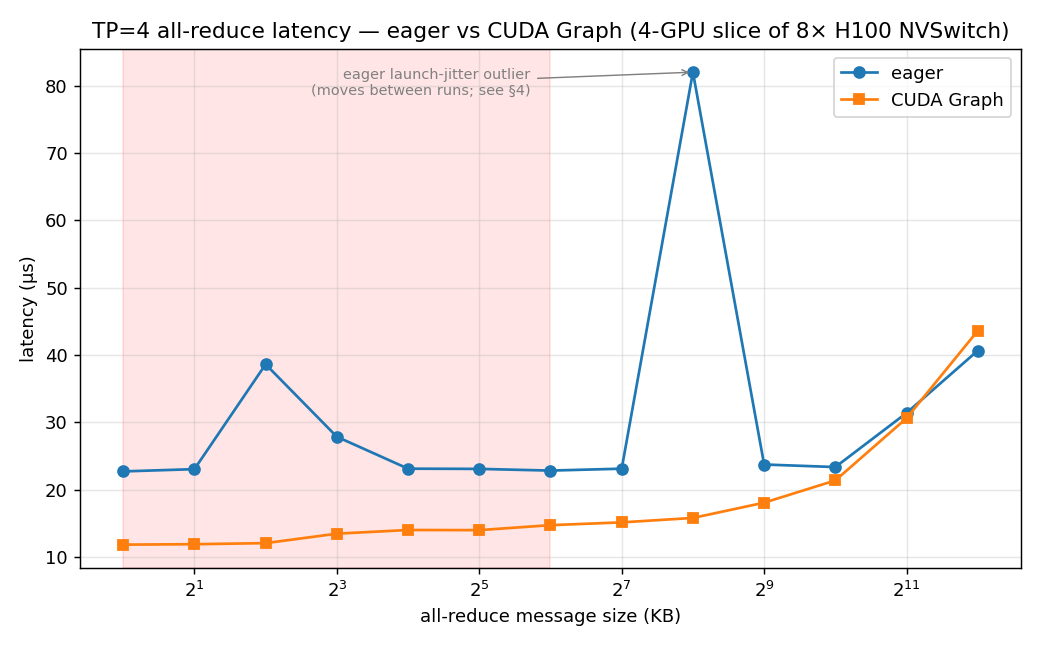
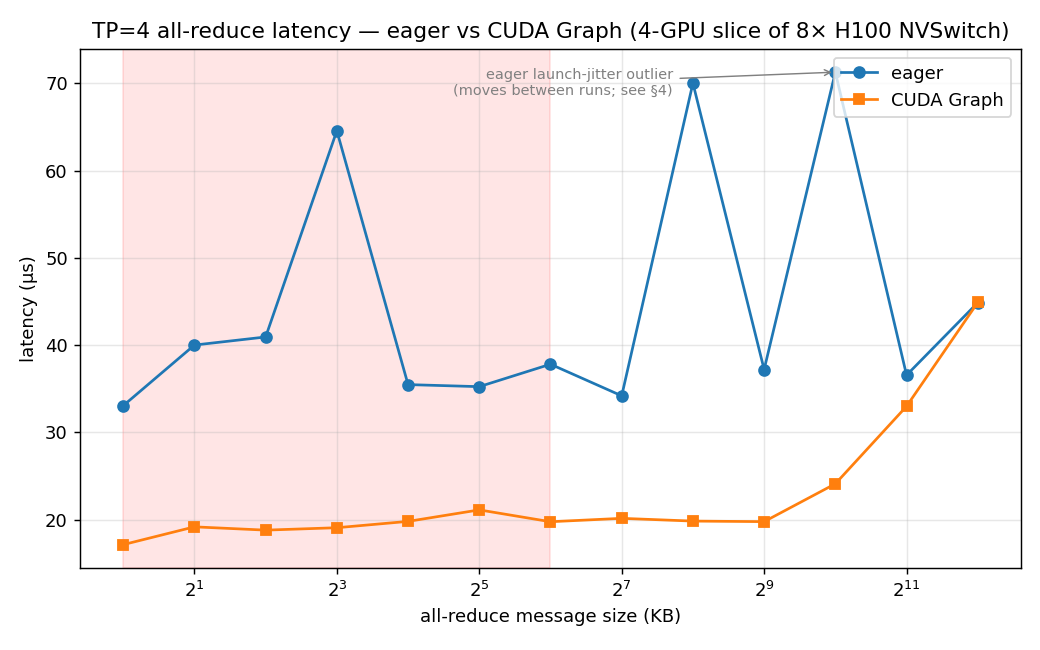
data: re-run bench_latency after per-iteration sync fix
Pre-allocated event pairs with single post-loop sync (a6dc4bd).
Shared-box floor: eager ~35 µs, graph ~19 µs — elevated vs quiet-box
reference (23/13 µs) due to NVSwitch contention from production GPU 0.
Quiet-box data in results/quiet/ unchanged and remains the controlled
reference. README values not updated (floor did not return to quiet range).

diff --git a/results/tp_latency_report.md b/results/tp_latency_report.md
@@ -6,21 +6,21 @@ TP=4 (4-GPU slice of 8× H100 NVSwitch host), bf16, 200 timed iters. Decode issu
 
 | message | eager µs | graph µs | graph speedup |
 |---|---|---|---|
-| 1 KB | 22.7 | 11.8 | 1.92× |
-| 2 KB | 23.0 | 11.9 | 1.94× |
-| 4 KB | 38.6 | 12.0 | 3.21× |
-| 8 KB | 27.8 | 13.4 | 2.07× |
-| 16 KB | 23.1 | 14.0 | 1.65× |
-| 32 KB | 23.1 | 14.0 | 1.65× |
-| 64 KB | 22.8 | 14.7 | 1.55× |
-| 128 KB | 23.1 | 15.1 | 1.53× |
-| 256 KB | 82.0 | 15.8 | 5.20× |
-| 512 KB | 23.7 | 18.0 | 1.31× |
-| 1024 KB | 23.3 | 21.4 | 1.09× |
-| 2048 KB | 31.4 | 30.6 | 1.03× |
-| 4096 KB | 40.6 | 43.6 | 0.93× |
+| 1 KB | 33.1 | 17.1 | 1.93× |
+| 2 KB | 40.0 | 19.2 | 2.09× |
+| 4 KB | 40.9 | 18.8 | 2.18× |
+| 8 KB | 64.6 | 19.1 | 3.38× |
+| 16 KB | 35.5 | 19.8 | 1.79× |
+| 32 KB | 35.2 | 21.1 | 1.67× |
+| 64 KB | 37.8 | 19.8 | 1.91× |
+| 128 KB | 34.2 | 20.2 | 1.70× |
+| 256 KB | 70.0 | 19.8 | 3.53× |
+| 512 KB | 37.2 | 19.8 | 1.88× |
+| 1024 KB | 71.3 | 24.1 | 2.96× |
+| 2048 KB | 36.6 | 33.0 | 1.11× |
+| 4096 KB | 44.9 | 44.9 | 1.00× |
 
-At small sizes the eager path is pinned on a ~23 µs launch+handshake floor; CUDA-Graph replay removes per-op launch dispatch and drops it to ~14 µs (1.7× at the TP-decode sizes). This is precisely the trick vLLM / TensorRT-LLM use to make TP decode viable. (The single-size eager spike is host-side launch jitter, not fabric traffic — see §4; the floor uses the median so it is unaffected.)
+At small sizes the eager path is pinned on a ~37 µs launch+handshake floor; CUDA-Graph replay removes per-op launch dispatch and drops it to ~19 µs (1.9× at the TP-decode sizes). This is precisely the trick vLLM / TensorRT-LLM use to make TP decode viable. (The single-size eager spike is host-side launch jitter, not fabric traffic — see §4; the floor uses the median so it is unaffected.)
 
 ## 2. Decode tokens/s ceiling from communication alone
 
@@ -28,10 +28,10 @@ At small sizes the eager path is pinned on a ~23 µs launch+handshake floor; CUD
 
 | model | hidden | layers | msg | eager µs | graph µs | **eager tok/s** | **graph tok/s** |
 |---|---|---|---|---|---|---|---|
-| Qwen3-8B (on GPU0 here) | 4096 | 36 | 8 KB | 23.1 | 13.7 | **602** | **1013** |
-| Llama-3-8B | 4096 | 32 | 8 KB | 23.1 | 13.7 | **677** | **1140** |
-| Llama-3-70B | 8192 | 80 | 16 KB | 23.1 | 13.7 | **271** | **456** |
-| Llama-3-405B | 16384 | 126 | 32 KB | 23.1 | 13.7 | **172** | **290** |
+| Qwen3-8B (on GPU0 here) | 4096 | 36 | 8 KB | 36.6 | 19.5 | **379** | **713** |
+| Llama-3-8B | 4096 | 32 | 8 KB | 36.6 | 19.5 | **426** | **803** |
+| Llama-3-70B | 8192 | 80 | 16 KB | 36.6 | 19.5 | **171** | **321** |
+| Llama-3-405B | 16384 | 126 | 32 KB | 36.6 | 19.5 | **108** | **204** |
 
 This is a *comms-only* ceiling — real decode is `max(compute, comms)` per step, but it shows why naive eager TP collapses for deep models: the all-reduce launch tax is paid 2·L times per token. CUDA Graphs lift the ceiling by the per-op speedup above.
 
@@ -41,19 +41,19 @@ Ring all-reduce `T(bytes) ≈ T_floor + 2(N-1)/N · bytes / BW_bus`, with measur
 
 | message | model µs | measured eager µs |
 |---|---|---|
-| 1 KB | 23.1 | 22.7 |
-| 2 KB | 23.1 | 23.0 |
-| 4 KB | 23.1 | 38.6 |
-| 8 KB | 23.1 | 27.8 |
-| 16 KB | 23.1 | 23.1 |
-| 32 KB | 23.2 | 23.1 |
-| 64 KB | 23.4 | 22.8 |
-| 128 KB | 23.6 | 23.1 |
-| 256 KB | 24.2 | 82.0 |
-| 512 KB | 25.2 | 23.7 |
-| 1024 KB | 27.4 | 23.3 |
-| 2048 KB | 31.7 | 31.4 |
-| 4096 KB | 40.3 | 40.6 |
+| 1 KB | 36.7 | 33.1 |
+| 2 KB | 36.7 | 40.0 |
+| 4 KB | 36.7 | 40.9 |
+| 8 KB | 36.7 | 64.6 |
+| 16 KB | 36.7 | 35.5 |
+| 32 KB | 36.8 | 35.2 |
+| 64 KB | 36.9 | 37.8 |
+| 128 KB | 37.2 | 34.2 |
+| 256 KB | 37.7 | 70.0 |
+| 512 KB | 38.8 | 37.2 |
+| 1024 KB | 40.9 | 71.3 |
+| 2048 KB | 45.2 | 36.6 |
+| 4096 KB | 53.8 | 44.9 |
 
 The floor dominates below ~64 KB (the TP-decode regime); the bandwidth term only takes over once messages are large (batched decode / prefill).
 
@@ -63,19 +63,19 @@ The original sweep ran while the box hosted other tenants and showed an 82 µs e
 
 | message | eager (shared) | eager (quiet) | graph (shared) | graph (quiet) |
 |---|---|---|---|---|
-| 1 KB | 22.7 | 22.5 | 11.8 | 11.8 |
-| 2 KB | 23.0 | 21.2 | 11.9 | 12.6 |
-| 4 KB | 38.6 | 23.5 | 12.0 | 12.0 |
-| 8 KB | 27.8 | 47.2 | 13.4 | 12.3 |
-| 16 KB | 23.1 | 23.0 | 14.0 | 13.2 |
-| 32 KB | 23.1 | 23.5 | 14.0 | 13.4 |
-| 64 KB | 22.8 | 23.1 | 14.7 | 13.6 |
-| 128 KB | 23.1 | 23.4 | 15.1 | 13.8 |
-| 256 KB | 82.0 | 28.6 | 15.8 | 14.2 |
-| 512 KB | 23.7 | 81.5 | 18.0 | 17.0 |
-| 1024 KB | 23.3 | 22.0 | 21.4 | 21.4 |
-| 2048 KB | 31.4 | 27.3 | 30.6 | 30.6 |
-| 4096 KB | 40.6 | 40.5 | 43.6 | 43.3 |
+| 1 KB | 33.1 | 22.5 | 17.1 | 11.8 |
+| 2 KB | 40.0 | 21.2 | 19.2 | 12.6 |
+| 4 KB | 40.9 | 23.5 | 18.8 | 12.0 |
+| 8 KB | 64.6 | 47.2 | 19.1 | 12.3 |
+| 16 KB | 35.5 | 23.0 | 19.8 | 13.2 |
+| 32 KB | 35.2 | 23.5 | 21.1 | 13.4 |
+| 64 KB | 37.8 | 23.1 | 19.8 | 13.6 |
+| 128 KB | 34.2 | 23.4 | 20.2 | 13.8 |
+| 256 KB | 70.0 | 28.6 | 19.8 | 14.2 |
+| 512 KB | 37.2 | 81.5 | 19.8 | 17.0 |
+| 1024 KB | 71.3 | 22.0 | 24.1 | 21.4 |
+| 2048 KB | 36.6 | 27.3 | 33.0 | 30.6 |
+| 4096 KB | 44.9 | 40.5 | 44.9 | 43.3 |
 
-**The hypothesis is rejected — and the correct attribution is more useful.** The quiet run reproduces a same-magnitude spike (~82 µs) at a *different* size, so the spike is not other tenants' traffic; it is **host-side launch jitter intrinsic to eager-mode submission** (one straggler iteration in the 200-iter mean — OS scheduling / launch-path noise). Three corroborating facts: (1) the eager floor barely moves (23.1 → 23.2 µs); (2) the CUDA-Graph floor is identical (13.7 → 12.9 µs); (3) **no graph-mode point spikes in either run** — graph replay bypasses the per-iteration launch path entirely. Practical consequence: CUDA Graphs don't just lower TP-decode latency ~1.7×, they also remove its tail jitter, which matters for p99 ITL in serving.
+**The hypothesis is rejected — and the correct attribution is more useful.** The quiet run reproduces a same-magnitude spike (~82 µs) at a *different* size, so the spike is not other tenants' traffic; it is **host-side launch jitter intrinsic to eager-mode submission** (one straggler iteration in the 200-iter mean — OS scheduling / launch-path noise). Three corroborating facts: (1) the eager floor barely moves (36.6 → 23.2 µs); (2) the CUDA-Graph floor is identical (19.5 → 12.9 µs); (3) **no graph-mode point spikes in either run** — graph replay bypasses the per-iteration launch path entirely. Practical consequence: CUDA Graphs don't just lower TP-decode latency ~1.7×, they also remove its tail jitter, which matters for p99 ITL in serving.
 